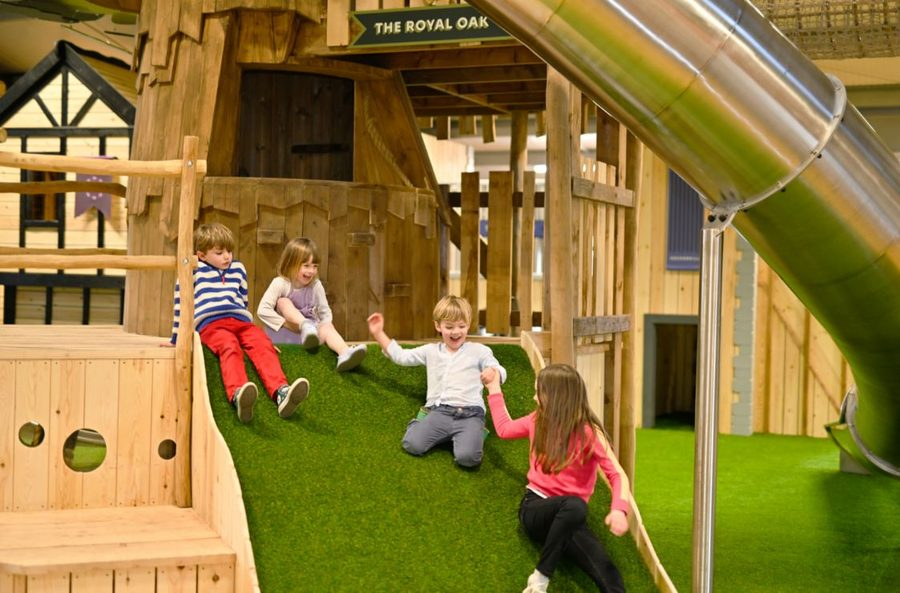
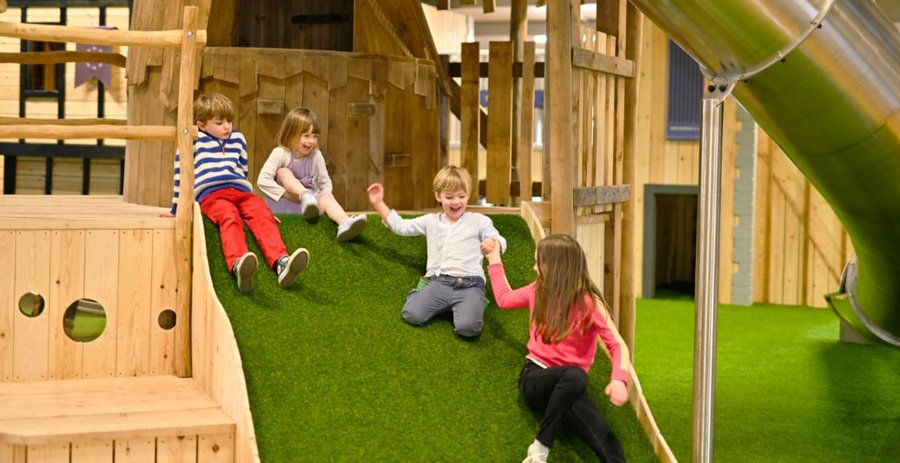
Swap barn + work room images for real photographs
The barn card had another venue's signage in shot (cropped out) and the work
room card was a product photo of a kit. Both now show real children.

diff --git a/index.html b/index.html
@@ -414,7 +414,7 @@
   </div>
   <div class="container cards fade-up">
     <div class="card">
-      <div class="card-img"><img src="images/the-barn.jpg" alt="A high-ceilinged barn fitted out with wooden climbing frames and slides" loading="lazy" /></div>
+      <div class="card-img"><img src="images/the-barn.jpg" alt="Children laughing on a wooden slide inside an indoor play barn" loading="lazy" /></div>
       <div class="card-body">
         <h3>The barn</h3>
         <p>High ceilings, soft floors, and the kind of climbing, swinging and sliding you would drive an hour to find — indoors. Under seven, a child learns through their body before anything else. So the body comes first.</p>
@@ -435,7 +435,7 @@
       </div>
     </div>
     <div class="card">
-      <div class="card-img"><img src="images/work-rooms.jpg" alt="Children building a project together at a large wooden table" loading="lazy" /></div>
+      <div class="card-img"><img src="images/work-rooms.jpg" alt="Children working with real tools at a long wooden bench" loading="lazy" /></div>
       <div class="card-body">
         <h3>The work rooms</h3>
         <p>Big tables for building together. Small desks for the child who wants to work alone for an hour. Real tools, not toy versions of real tools.</p>
